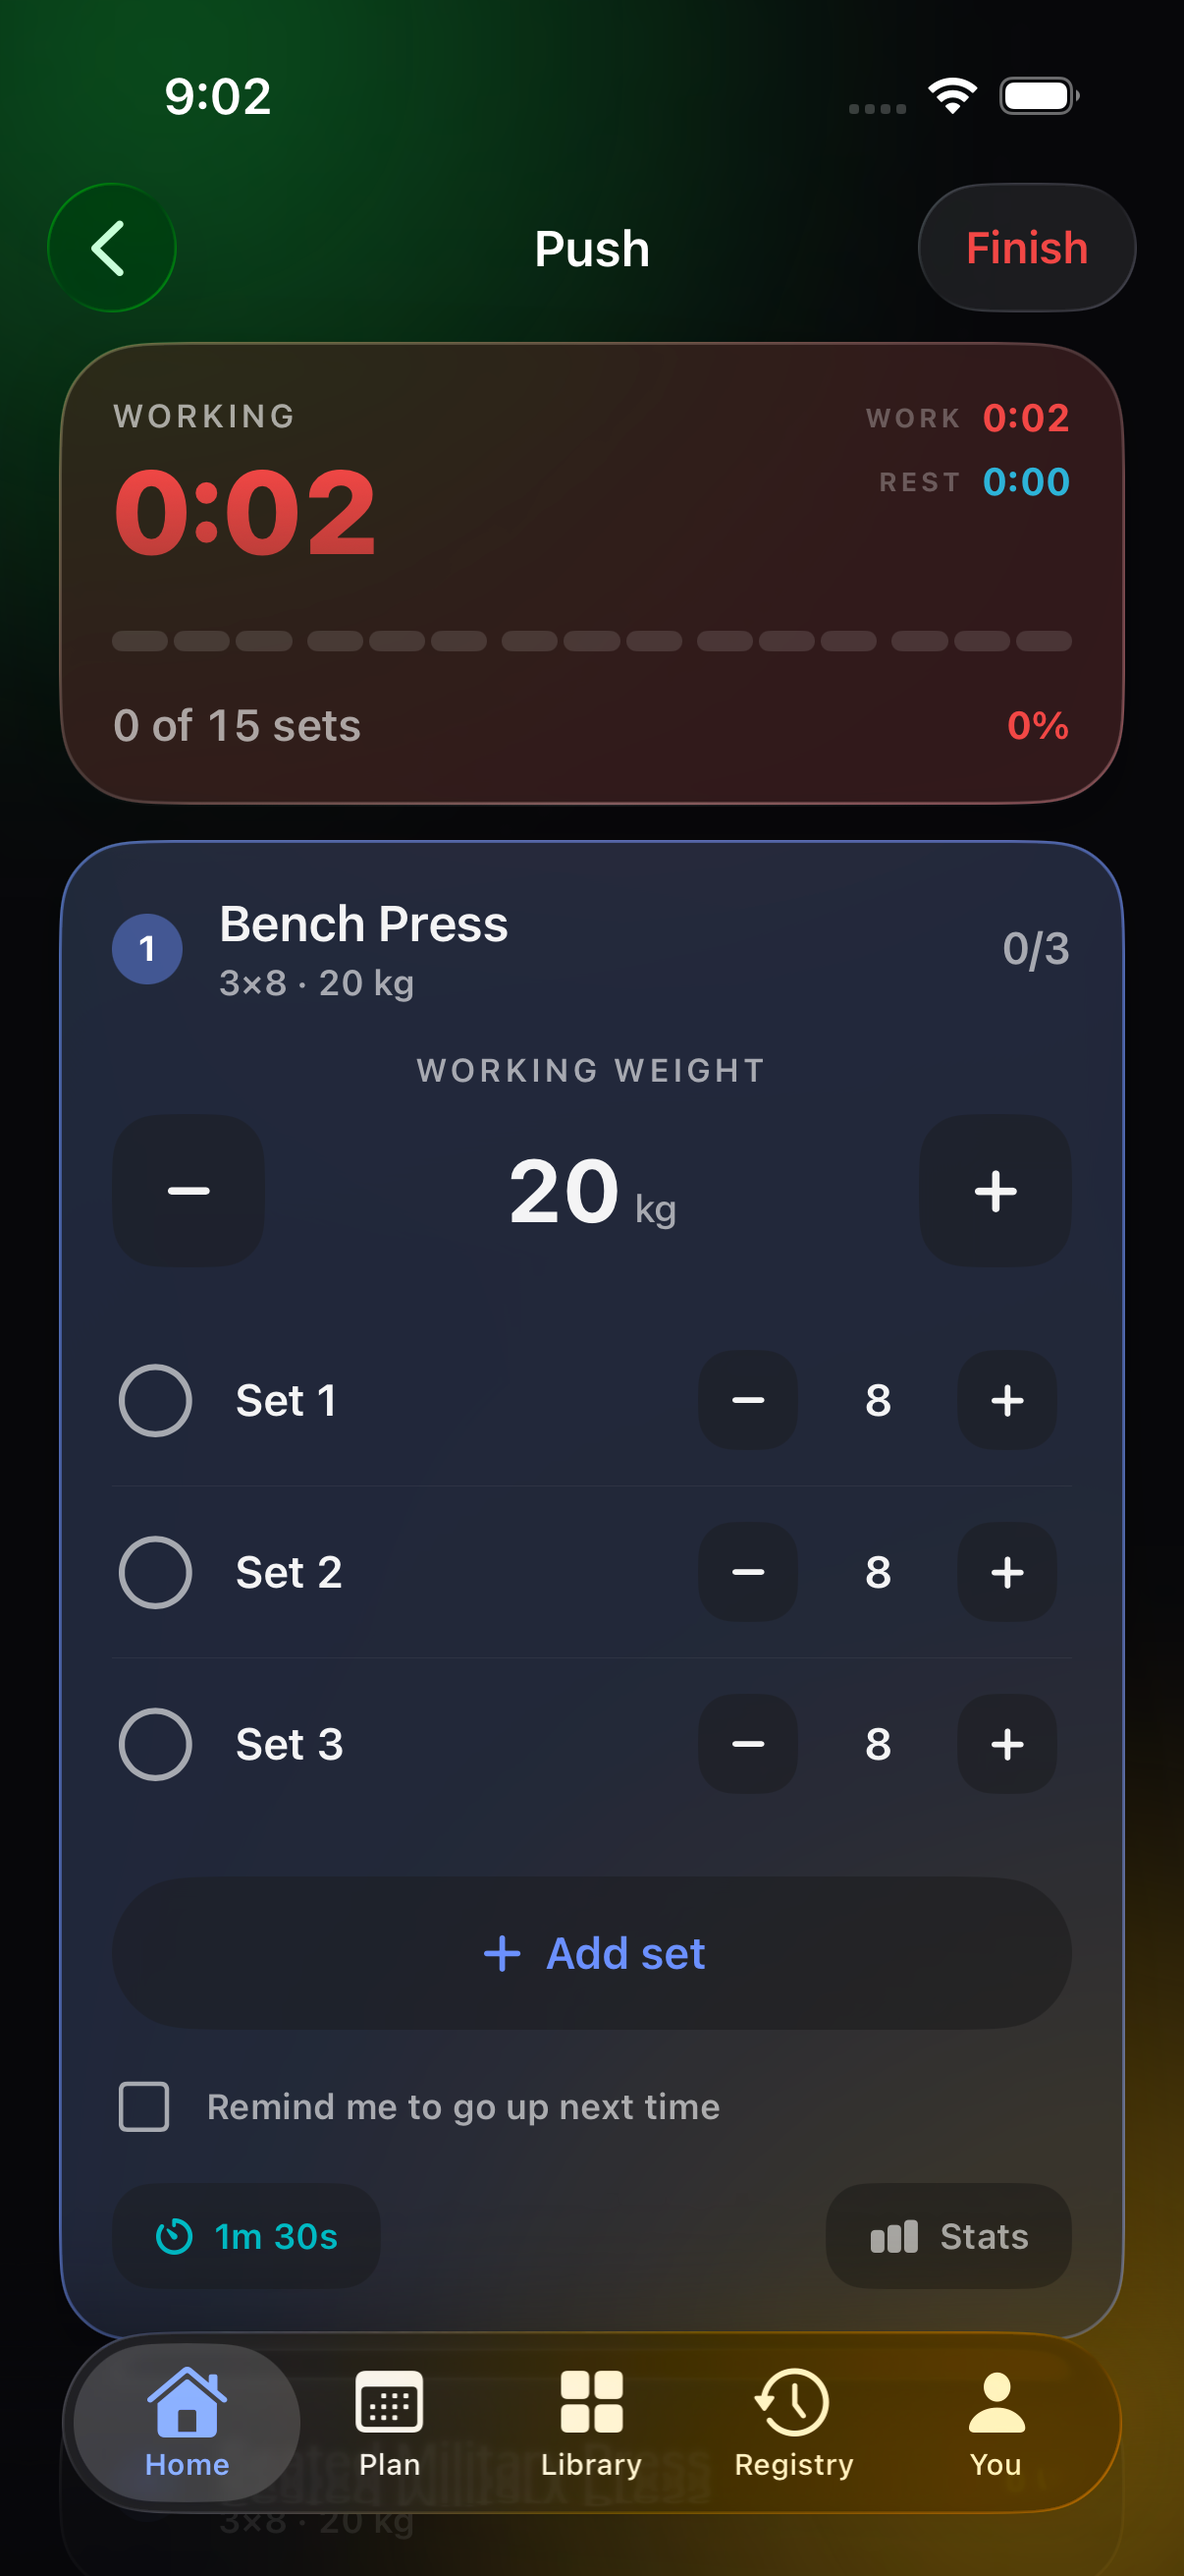
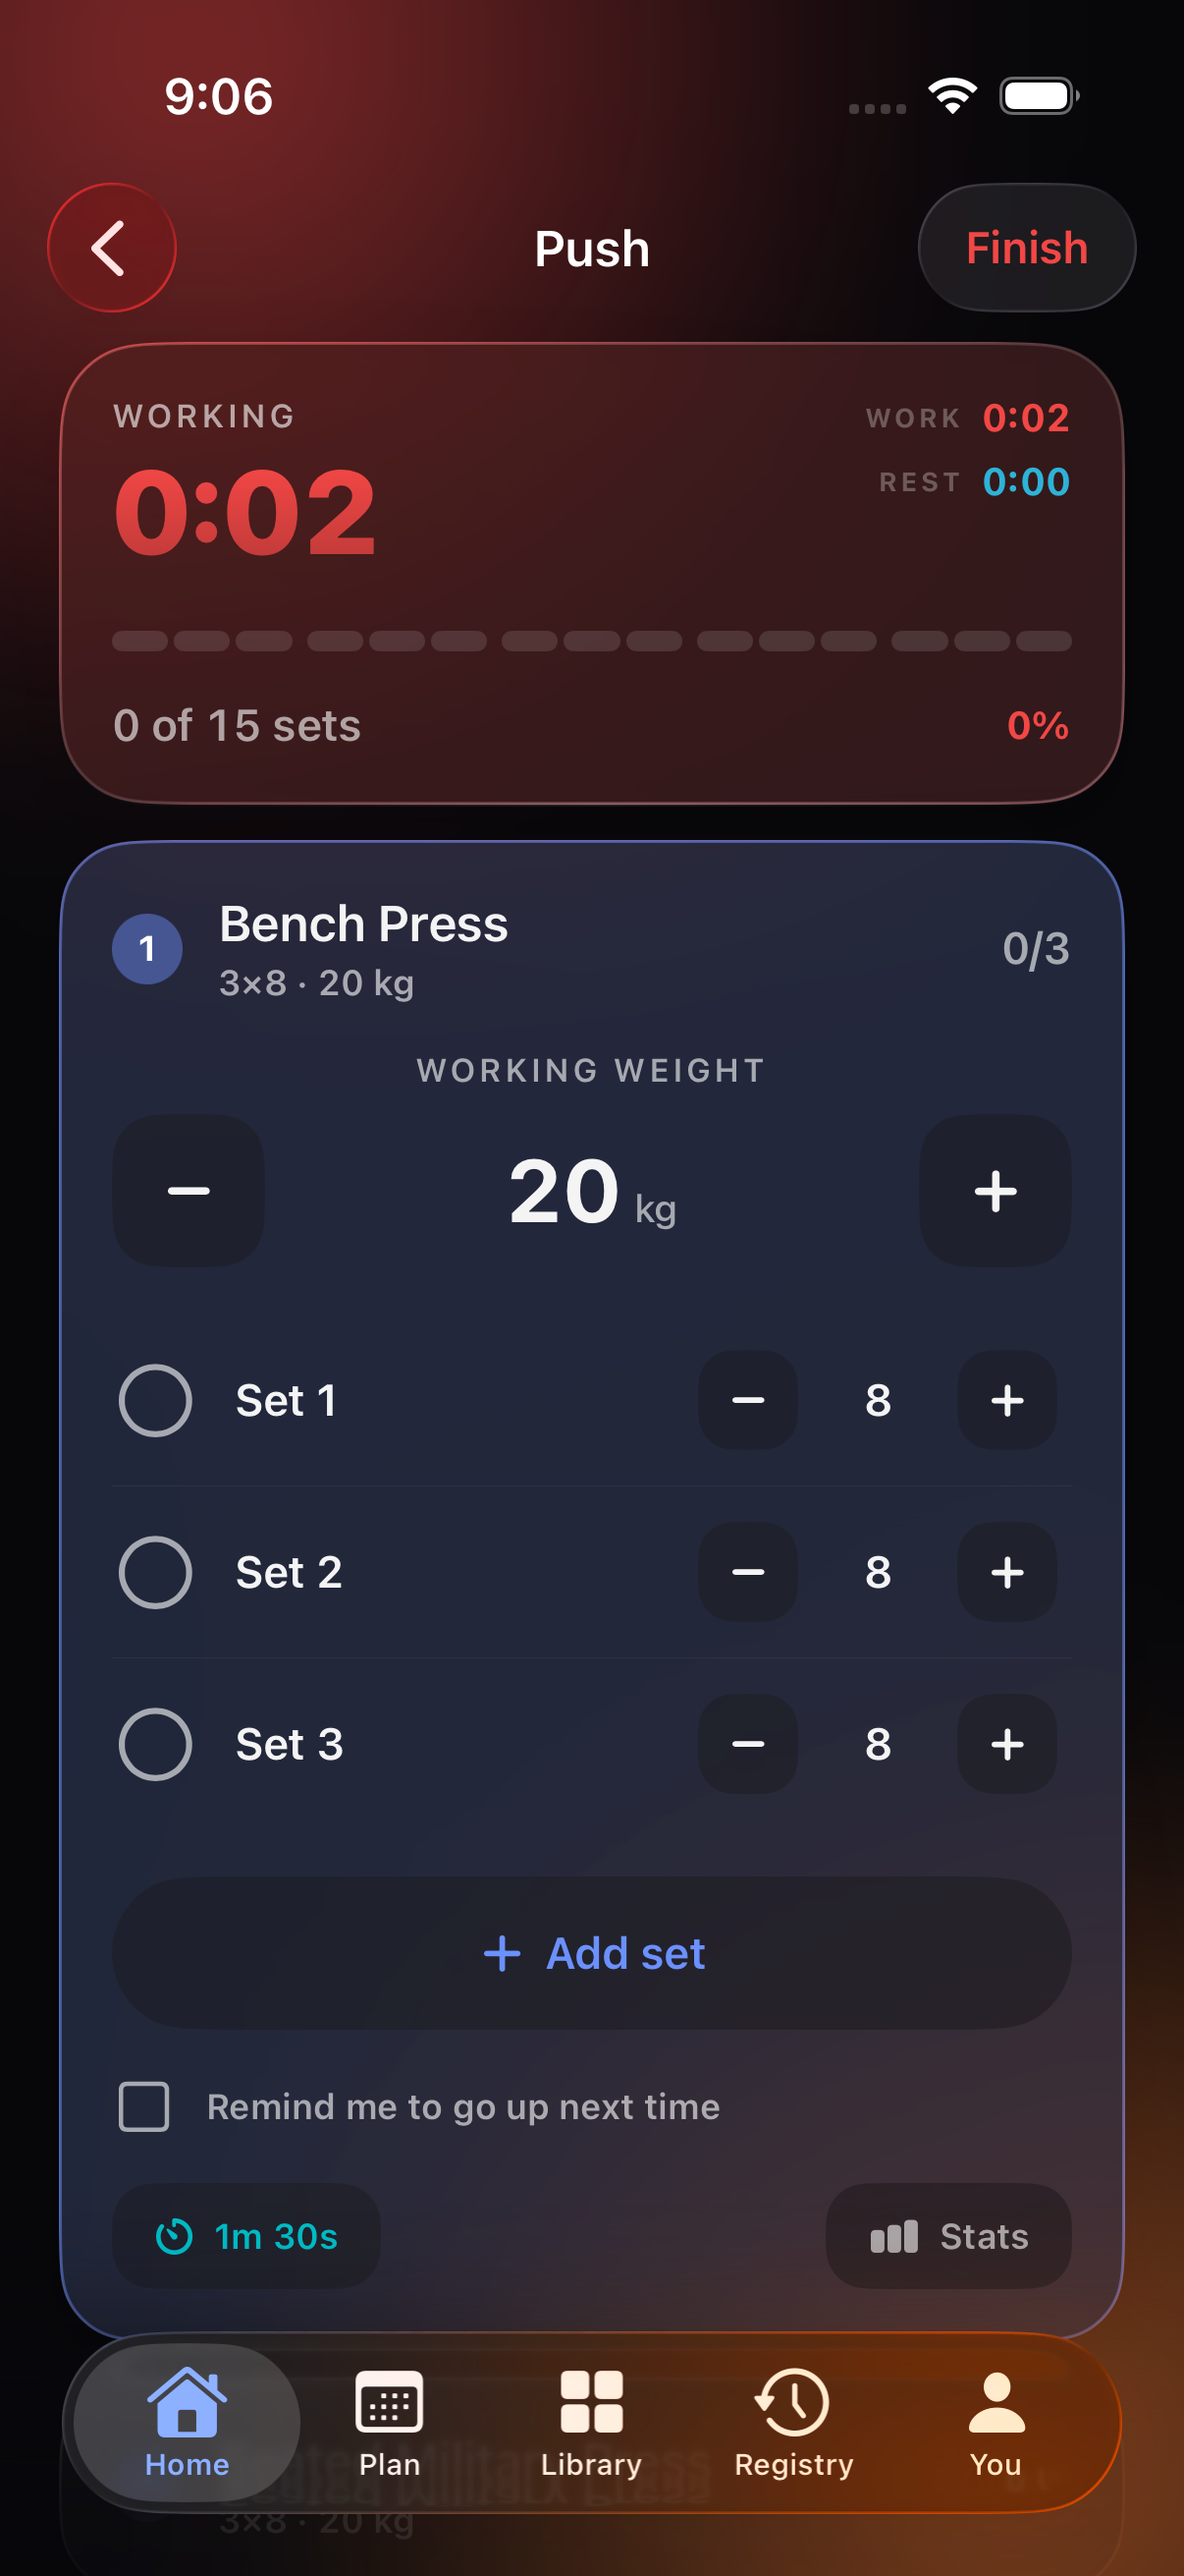
fix: sport mode landed on green, not red
Rotating the house hues by a fixed amount sends violet and cyan to two
different places, and the session background came out green over yellow. A
variant can now name its bloom colours outright, which is what a specific
look needs.

Changed region(s): [[0.0, 0.0, 0.675, 0.2471], [0.7056, 0.9268, 0.9204, 0.9886]]

diff --git a/Gym Traker/DesignSystem/AuroraBackground.swift b/Gym Traker/DesignSystem/AuroraBackground.swift
@@ -14,27 +14,39 @@ import SwiftUI
 
 /// Where the blooms sit and how they are tinted on a given screen.
 struct AuroraVariant: Equatable {
-    /// Degrees added to both bloom hues.
+    /// Degrees added to both bloom hues. Fine for nudging the house palette
+    /// along; useless for landing on a specific colour, since rotating two
+    /// different hues by the same amount sends them to two different places.
+    /// When a screen needs particular colours, name them instead.
     var hueShift: Double
+    /// Overrides the bloom colours outright.
+    var primaryColor: Color?
+    var secondaryColor: Color?
     /// Bloom centres in unit coordinates, before the drift is applied.
     var primary: UnitPoint
     var secondary: UnitPoint
     var intensity: Double
 
-    static let home = AuroraVariant(hueShift: 0, primary: UnitPoint(x: 0.78, y: 0.08),
+    static let home = AuroraVariant(hueShift: 0, primaryColor: nil, secondaryColor: nil, primary: UnitPoint(x: 0.78, y: 0.08),
                                     secondary: UnitPoint(x: 0.18, y: 0.86), intensity: 1)
-    static let plan = AuroraVariant(hueShift: -18, primary: UnitPoint(x: 0.18, y: 0.14),
+    static let plan = AuroraVariant(hueShift: -18, primaryColor: nil, secondaryColor: nil, primary: UnitPoint(x: 0.18, y: 0.14),
                                     secondary: UnitPoint(x: 0.86, y: 0.72), intensity: 0.94)
-    static let library = AuroraVariant(hueShift: 22, primary: UnitPoint(x: 0.88, y: 0.32),
+    static let library = AuroraVariant(hueShift: 22, primaryColor: nil, secondaryColor: nil, primary: UnitPoint(x: 0.88, y: 0.32),
                                        secondary: UnitPoint(x: 0.10, y: 0.94), intensity: 0.9)
-    static let registry = AuroraVariant(hueShift: -34, primary: UnitPoint(x: 0.30, y: 0.06),
+    static let registry = AuroraVariant(hueShift: -34, primaryColor: nil, secondaryColor: nil, primary: UnitPoint(x: 0.30, y: 0.06),
                                         secondary: UnitPoint(x: 0.92, y: 0.58), intensity: 0.88)
-    static let profile = AuroraVariant(hueShift: 42, primary: UnitPoint(x: 0.62, y: 0.10),
+    static let profile = AuroraVariant(hueShift: 42, primaryColor: nil, secondaryColor: nil, primary: UnitPoint(x: 0.62, y: 0.10),
                                        secondary: UnitPoint(x: 0.14, y: 0.78), intensity: 1.05)
-    /// Sport mode: the blooms swing round to red and sit low and wide, so the
-    /// session screen reads hot the moment it opens.
-    static let session = AuroraVariant(hueShift: -128, primary: UnitPoint(x: 0.14, y: 0.02),
-                                       secondary: UnitPoint(x: 0.88, y: 0.94), intensity: 1.25)
+    /// Sport mode. Rotating the house hues landed on green and yellow, so the
+    /// session names its colours: red overhead, ember below.
+    static let session = AuroraVariant(
+        hueShift: 0,
+        primaryColor: Theme.Palette.sportRed,
+        secondaryColor: Theme.Palette.sportEmber,
+        primary: UnitPoint(x: 0.16, y: 0.02),
+        secondary: UnitPoint(x: 0.86, y: 0.96),
+        intensity: 1.15
+    )
 }
 
 // MARK: - Attaching a variant
@@ -74,14 +86,14 @@ struct AuroraBackground: View {
                 let bloom = max(size.width, size.height) * 0.95
 
                 ZStack {
-                    bloomCircle(Theme.Palette.violetDeep)
+                    bloomCircle(variant.primaryColor ?? Theme.Palette.violetDeep)
                         .frame(width: bloom, height: bloom)
                         .position(
                             x: variant.primary.x * size.width,
                             y: variant.primary.y * size.height
                         )
 
-                    bloomCircle(Theme.Palette.cyan)
+                    bloomCircle(variant.secondaryColor ?? Theme.Palette.cyan)
                         .frame(width: bloom * 0.85, height: bloom * 0.85)
                         .position(
                             x: variant.secondary.x * size.width,
